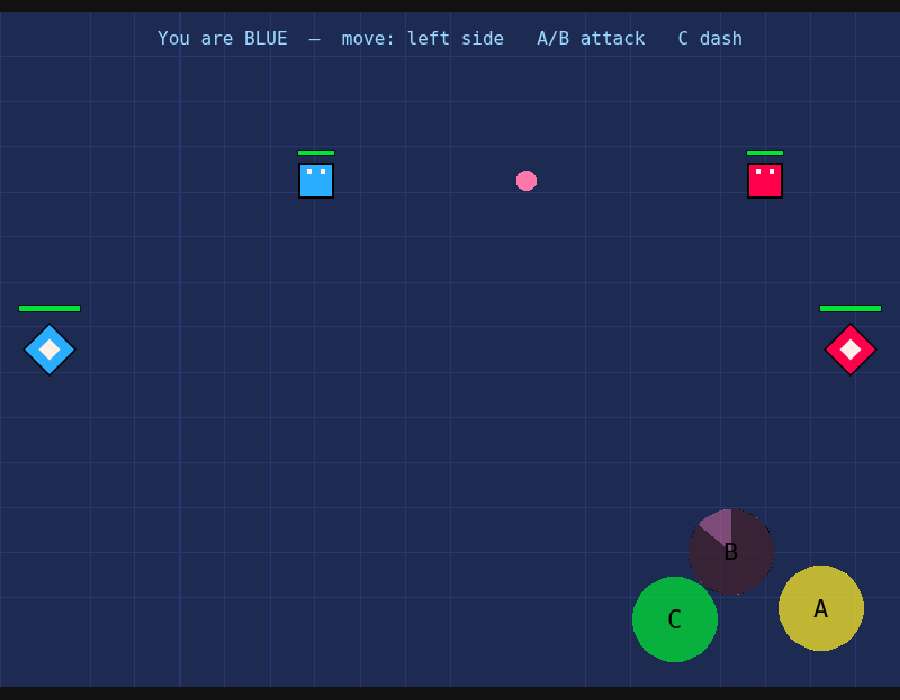
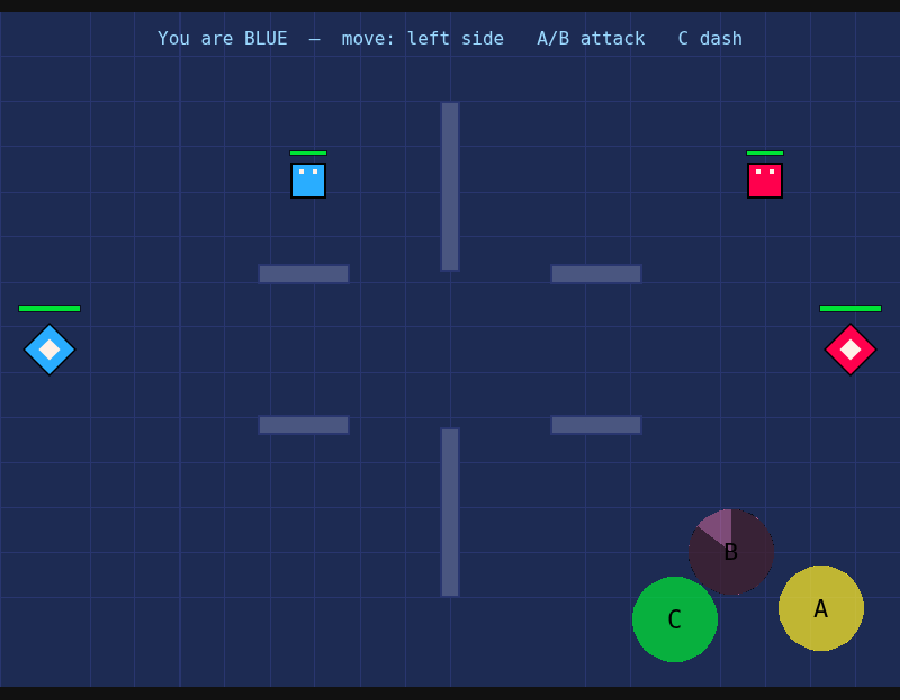
Finish-MVP Phase C: a real map with walls
Add mirror-symmetric obstacles (WALLS in config.js): two central pillars with a
gap plus four cover blocks, leaving the center row and a vertical corridor open.
Movement and dash now collide with walls via a shared, axis-separated resolver
in sim.js (resolveMove), so prediction stays in lockstep with the server and you
slide along walls instead of sticking. Projectiles are absorbed by walls
(pointInWall) on the authoritative server. Arena draws the walls below players.

New m13 wall tests (movement/dash stop at a face, sliding works, bolt absorbed)
and a map screenshot. m5.combat moves its fighters to the open center row for a
clear shot. 17/17 test groups pass; live two-browser test passes.

https://claude.ai/code/session_01MAXKRUpJFcKFAvV2b8xTXo

diff --git a/src/sim.js b/src/sim.js
@@ -5,10 +5,71 @@
 // server's real position stay in close agreement, so corrections are tiny.
 // ===========================================================================
 
-import { PLAYER_SPEED, PLAYER_HALF, GAME_WIDTH, GAME_HEIGHT } from "./config.js";
+import { PLAYER_SPEED, PLAYER_HALF, GAME_WIDTH, GAME_HEIGHT, WALLS } from "./config.js";
 
 function clamp(v, lo, hi) {
   return v < lo ? lo : v > hi ? hi : v;
+}
+
+// --- Wall collision ---------------------------------------------------------
+// We treat a player as a square of side 2*PLAYER_HALF and resolve walls one
+// axis at a time (X first, then Y). Resolving per-axis lets the player slide
+// along a wall instead of sticking to it, and only blocking a move that would
+// ENTER a wall (we were outside its near face before) avoids getting trapped.
+
+// Push a horizontal move out of any wall it would enter. `y` is the player's
+// current vertical position, used to see which walls are actually in the way.
+function collideX(oldX, newX, y) {
+  for (const w of WALLS) {
+    const top = w.y;
+    const bottom = w.y + w.h;
+    // Skip walls the player isn't level with vertically.
+    if (y + PLAYER_HALF <= top || y - PLAYER_HALF >= bottom) continue;
+    const left = w.x;
+    const right = w.x + w.w;
+    if (newX > oldX && oldX + PLAYER_HALF <= left && newX + PLAYER_HALF > left) {
+      newX = left - PLAYER_HALF; // moving right: stop at the wall's left face
+    } else if (newX < oldX && oldX - PLAYER_HALF >= right && newX - PLAYER_HALF < right) {
+      newX = right + PLAYER_HALF; // moving left: stop at the right face
+    }
+  }
+  return newX;
+}
+
+// The vertical twin of collideX. `x` is the (already X-resolved) position.
+function collideY(oldY, newY, x) {
+  for (const w of WALLS) {
+    const left = w.x;
+    const right = w.x + w.w;
+    if (x + PLAYER_HALF <= left || x - PLAYER_HALF >= right) continue;
+    const top = w.y;
+    const bottom = w.y + w.h;
+    if (newY > oldY && oldY + PLAYER_HALF <= top && newY + PLAYER_HALF > top) {
+      newY = top - PLAYER_HALF;
+    } else if (newY < oldY && oldY - PLAYER_HALF >= bottom && newY - PLAYER_HALF < bottom) {
+      newY = bottom + PLAYER_HALF;
+    }
+  }
+  return newY;
+}
+
+// Move from (oldX,oldY) toward a target point, clamped to the arena and
+// blocked by walls. Shared by normal movement and the dash so both obey the
+// same map. Identical on server and client, so prediction stays in sync.
+export function resolveMove(oldX, oldY, targetX, targetY) {
+  let nx = clamp(targetX, PLAYER_HALF, GAME_WIDTH - PLAYER_HALF);
+  let ny = clamp(targetY, PLAYER_HALF, GAME_HEIGHT - PLAYER_HALF);
+  nx = collideX(oldX, nx, oldY);
+  ny = collideY(oldY, ny, nx);
+  return { x: nx, y: ny };
+}
+
+// Is the point (x,y) inside any wall? Used to absorb projectiles.
+export function pointInWall(x, y) {
+  for (const w of WALLS) {
+    if (x >= w.x && x <= w.x + w.w && y >= w.y && y <= w.y + w.h) return true;
+  }
+  return false;
 }
 
 // Normalize an input vector so diagonals aren't faster than straight lines.
@@ -19,11 +80,9 @@ export function normalizeInput(dx, dy) {
   return { dx, dy };
 }
 
-// Advance a position by an input vector over dt seconds, clamped to the arena.
+// Advance a position by an input vector over dt seconds, clamped to the arena
+// and blocked by walls.
 export function stepPosition(x, y, dx, dy, dt) {
   const n = normalizeInput(dx, dy);
-  return {
-    x: clamp(x + n.dx * PLAYER_SPEED * dt, PLAYER_HALF, GAME_WIDTH - PLAYER_HALF),
-    y: clamp(y + n.dy * PLAYER_SPEED * dt, PLAYER_HALF, GAME_HEIGHT - PLAYER_HALF),
-  };
+  return resolveMove(x, y, x + n.dx * PLAYER_SPEED * dt, y + n.dy * PLAYER_SPEED * dt);
 }

diff --git a/src/net/GameServer.js b/src/net/GameServer.js
@@ -20,7 +20,7 @@ import {
   BASE_POS,
   MATCH,
 } from "../config.js";
-import { stepPosition, normalizeInput } from "../sim.js";
+import { stepPosition, normalizeInput, resolveMove, pointInWall } from "../sim.js";
 
 export default class GameServer {
   constructor() {
@@ -154,10 +154,17 @@ export default class GameServer {
     if (this.timeMs < player.cd.dash) return; // cooling down
     player.cd.dash = this.timeMs + DASH.cd;
 
-    // Dash along the way we're facing (last movement direction).
+    // Dash along the way we're facing (last movement direction). Walls stop
+    // the dash just like normal movement does (shared resolveMove).
     const f = normalizeInput(player.face.x, player.face.y);
-    player.x = clamp(player.x + f.dx * DASH.distance, PLAYER_HALF, GAME_WIDTH - PLAYER_HALF);
-    player.y = clamp(player.y + f.dy * DASH.distance, PLAYER_HALF, GAME_HEIGHT - PLAYER_HALF);
+    const dest = resolveMove(
+      player.x,
+      player.y,
+      player.x + f.dx * DASH.distance,
+      player.y + f.dy * DASH.distance
+    );
+    player.x = dest.x;
+    player.y = dest.y;
   }
 
   tryAttack(player, kind) {
@@ -249,6 +256,7 @@ export default class GameServer {
       b.y += b.vy * dt;
       const offscreen = b.x < 0 || b.x > GAME_WIDTH || b.y < 0 || b.y > GAME_HEIGHT;
       if (this.timeMs >= b.dieAt || offscreen) continue;
+      if (pointInWall(b.x, b.y)) continue; // a wall swallows the bolt
 
       const victim = this.hitPlayer(b);
       if (victim) {

diff --git a/src/config.js b/src/config.js
@@ -17,6 +17,8 @@ export const COLORS = {
   redTeam: 0xff004d, // player team 2
   outline: 0x000000,
   white: 0xfff1e8,
+  wall: 0x4a5680, // stone-blue obstacles
+  wallEdge: 0x29366f, // darker wall outline
 };
 
 // How fast a player moves, in pixels per second.
@@ -86,6 +88,24 @@ export const BASE_POS = {
   blue: { x: 44, y: GAME_HEIGHT / 2 },
   red: { x: GAME_WIDTH - 44, y: GAME_HEIGHT / 2 },
 };
+
+// --- Map / obstacles --------------------------------------------------------
+// A few solid walls that block movement, dash, and projectiles. Each is an
+// axis-aligned rectangle given as its top-left corner plus width/height, in
+// world pixels. The layout is mirror-symmetric about the center so neither
+// team gets an advantage, and it deliberately leaves the center row (y≈300,
+// where the bases line up) and a vertical gap through the middle open so
+// players can still path across.
+export const WALLS = [
+  // Two central pillars on the mid-line, with a gap between them.
+  { x: 392, y: 80, w: 16, h: 150 },
+  { x: 392, y: 370, w: 16, h: 150 },
+  // Cover blocks flanking the center, clear of the spawn rows (y=150/300/450).
+  { x: 230, y: 225, w: 80, h: 16 },
+  { x: 490, y: 225, w: 80, h: 16 },
+  { x: 230, y: 359, w: 80, h: 16 },
+  { x: 490, y: 359, w: 80, h: 16 },
+];
 
 export const MATCH = {
   resetMs: 5000, // pause on the win banner, then start a fresh match

diff --git a/src/scenes/ArenaScene.js b/src/scenes/ArenaScene.js
@@ -5,7 +5,7 @@
 // ===========================================================================
 
 import Phaser from "phaser";
-import { GAME_WIDTH, GAME_HEIGHT, COLORS, COMBAT, DASH } from "../config.js";
+import { GAME_WIDTH, GAME_HEIGHT, COLORS, COMBAT, DASH, WALLS } from "../config.js";
 import { generateTextures } from "../textures.js";
 import { stepPosition } from "../sim.js";
 import Player from "../entities/Player.js";
@@ -25,6 +25,7 @@ export default class ArenaScene extends Phaser.Scene {
   create() {
     generateTextures(this);
     this.drawGrid();
+    this.drawWalls();
 
     this.net = this.registry.get("net");
     this.sprites = new Map(); // player id -> Player display object
@@ -346,5 +347,17 @@ export default class ArenaScene extends Phaser.Scene {
     for (let x = 0; x <= GAME_WIDTH; x += step) g.lineBetween(x, 0, x, GAME_HEIGHT);
     for (let y = 0; y <= GAME_HEIGHT; y += step) g.lineBetween(0, y, GAME_WIDTH, y);
     g.setDepth(-10);
+  }
+
+  // Draw the solid obstacles from config. They sit above the grid but below
+  // the players and bolts, so characters clearly pass in front of them.
+  drawWalls() {
+    const g = this.add.graphics().setDepth(-5);
+    for (const w of WALLS) {
+      g.fillStyle(COLORS.wall, 1);
+      g.fillRect(w.x, w.y, w.w, w.h);
+      g.lineStyle(2, COLORS.wallEdge, 1);
+      g.strokeRect(w.x, w.y, w.w, w.h);
+    }
   }
 }

diff --git a/.claude/workflows/finish-mvp/PLAN.md b/.claude/workflows/finish-mvp/PLAN.md
@@ -31,7 +31,7 @@ tint/feedback flag and a damage-number object is spawned. No console errors.
 **Acceptance:** server unit test for the lifecycle transitions; headless test
 that the lobby text shows and the arena begins after enough players join.
 
-## Phase C — A real map `[ ]`
+## Phase C — A real map `[x]`
 **Why:** the open grid makes positioning and dash meaningless.
 - Add a few walls/obstacles in `config.js` (rectangles), drawn in the arena.
 - Server movement + dash collide with walls (shared in `sim.js`).
